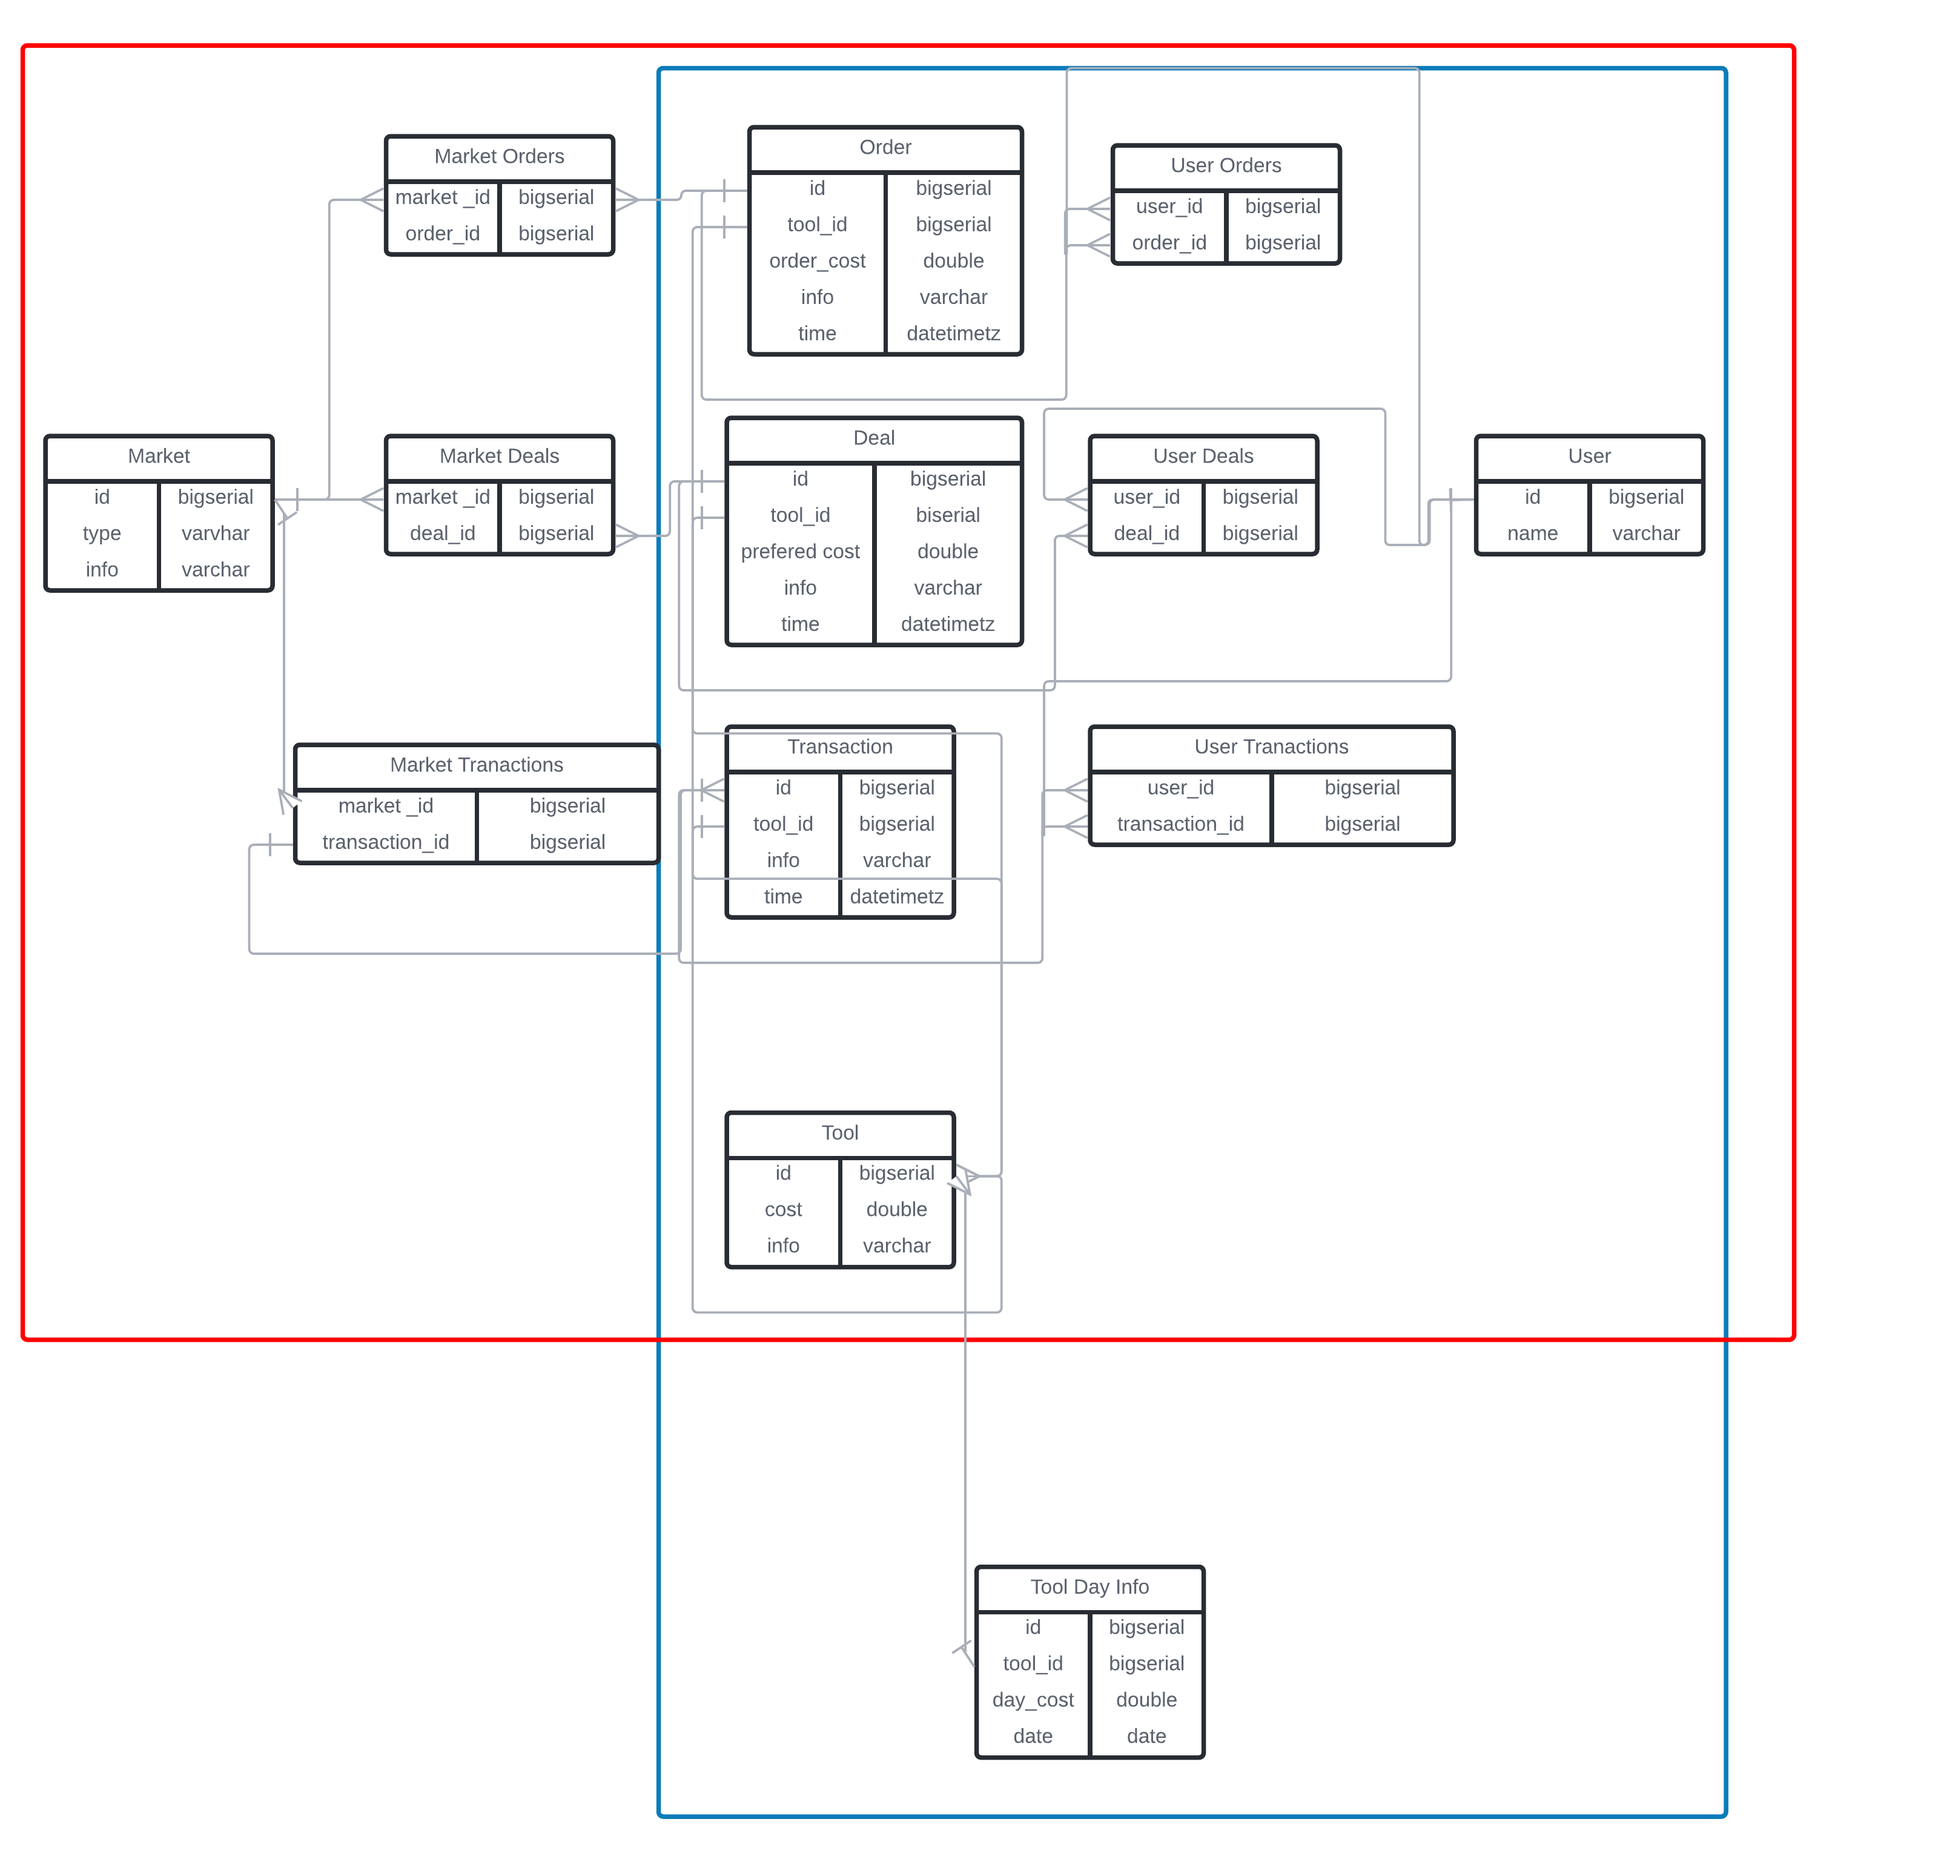
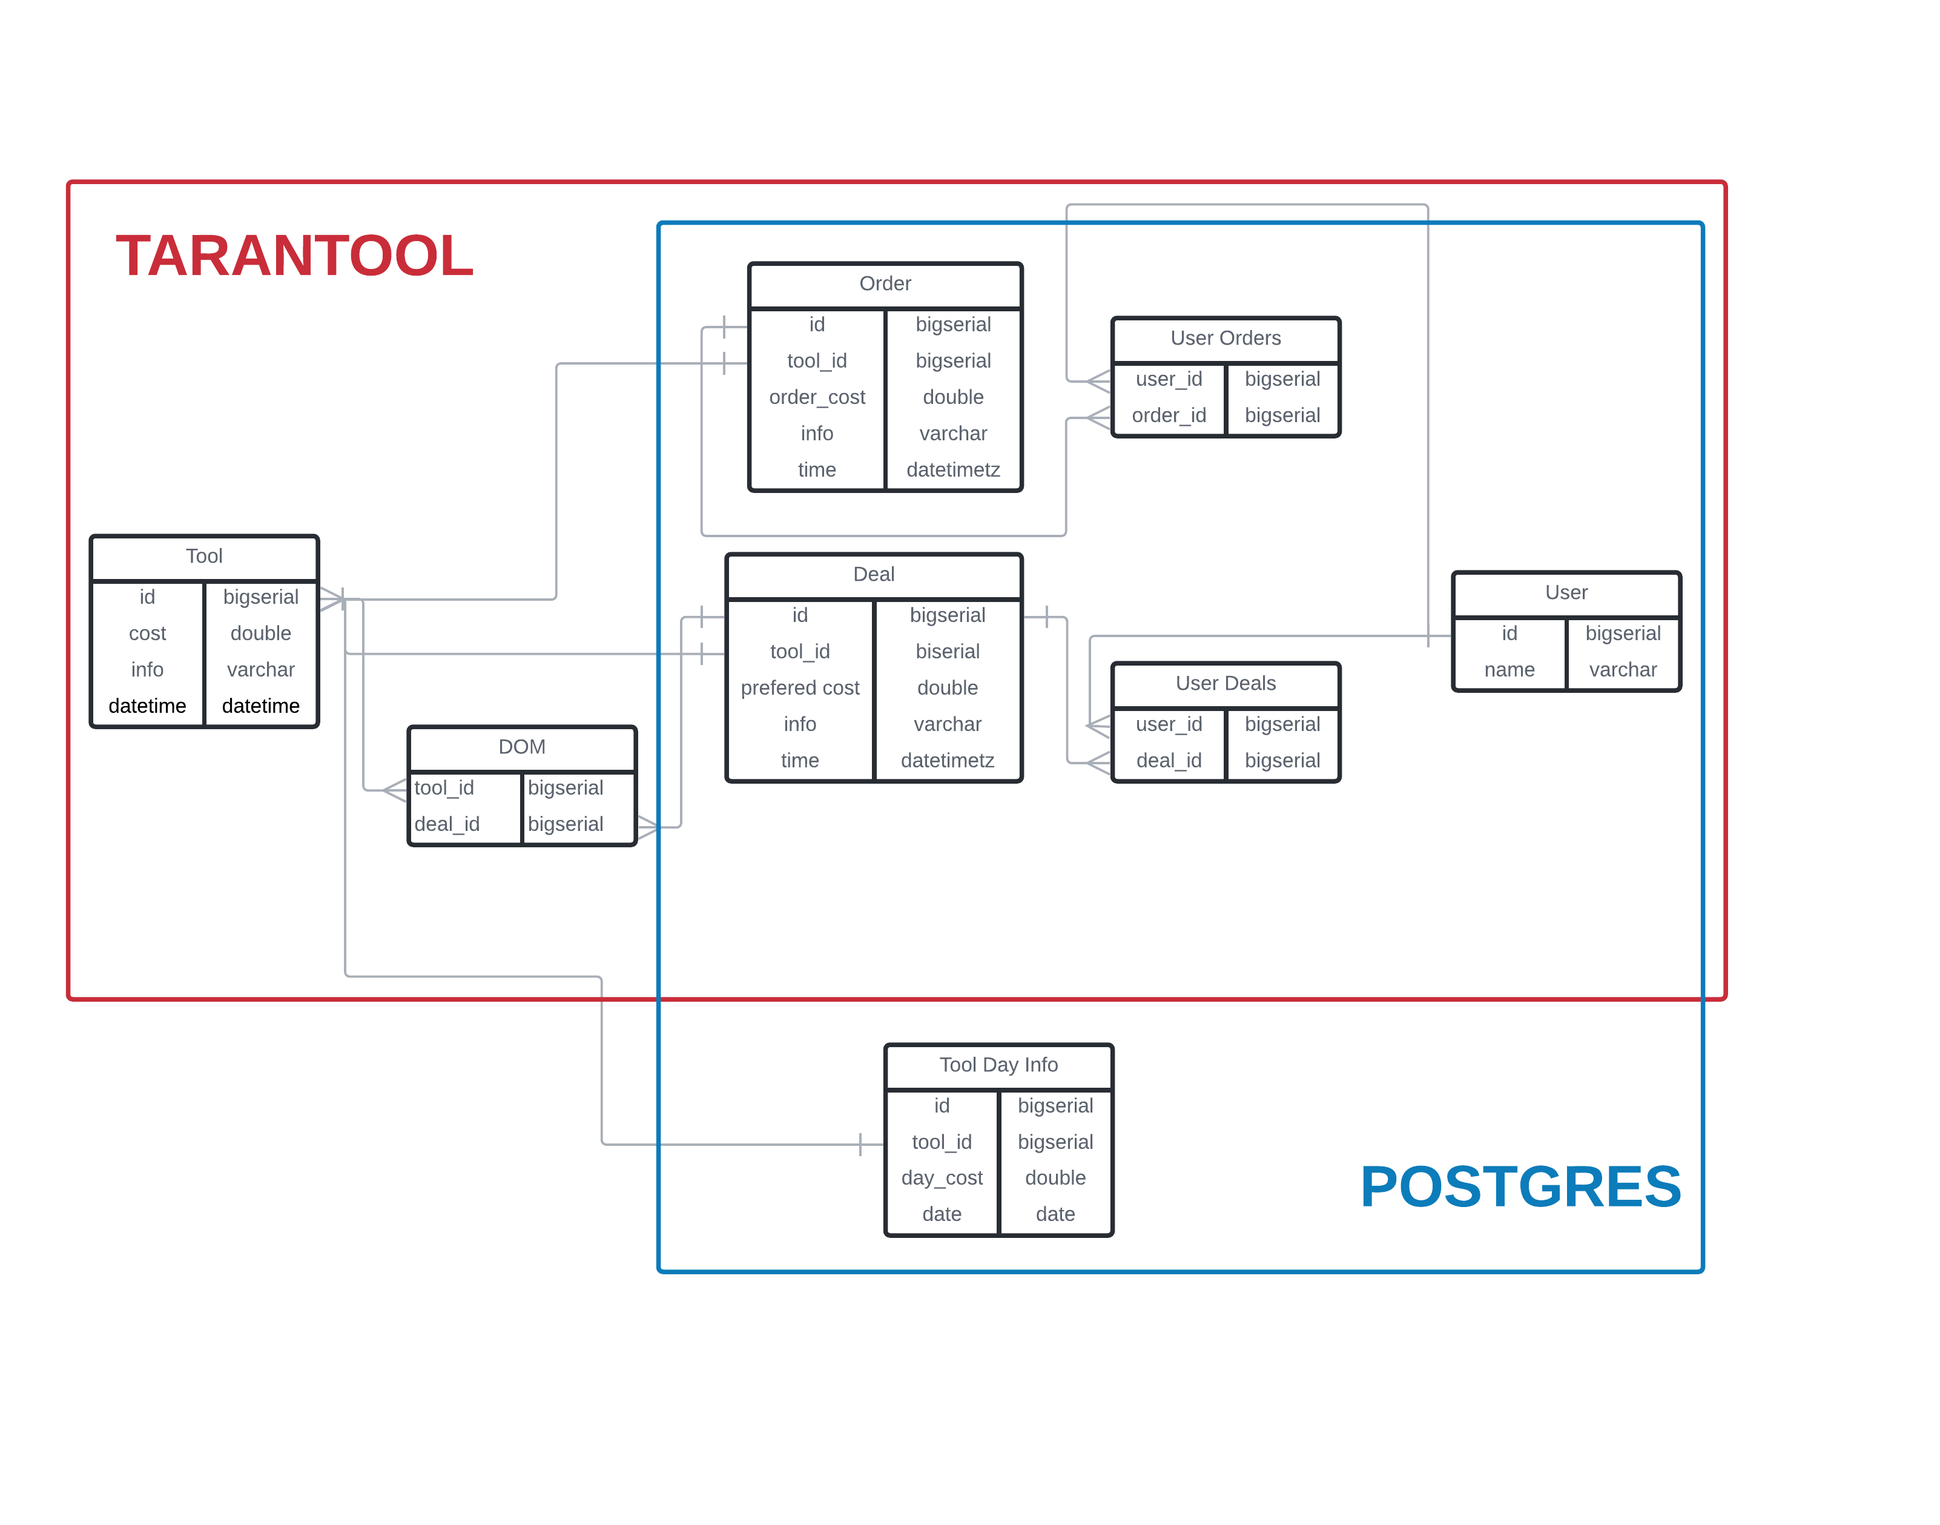
DB updated and load counted

diff --git a/README.md b/README.md
@@ -115,11 +115,27 @@
 
 ![](./media/PhysDBScheme.png) 
 
+###   Нагрузка на таблицы в Tarantool
 
-**Синий -** Postgres
+Исходя из того, что транзакции - это запросы на чтение таблиц, а сделки и заказы запросы на запись посчитаем нагрузку на таблицы в Tarantool. 
 
-**Красный -**  Tarantool
+Самые читаемые таблицы DOM (Информация о стакане), User Deals (Пользовательские заказы), User Orders (Пользовательские сделки) и Tools (Информация о цене инструмента в данных торгах). Следовательно на каждую из них будет приходиться
 
+```
+299 720 RPS / 4 таблицы = 74 930 RPS / таблицу
+``` 
+
+Пишем мы соотвествующие таблицы и связанные с ними, тогда таблица нагрузки будет выглядеть следующим образом:
+
+|Таблица|RPS на чтение|RPS на запись|
+|-|-|-|
+|DOM|74 930|66 355|
+|User Deals|74 930|66 355|
+|User Orders|74 930|4 474|
+|Tool| 74 930 |4 474|
+|Deals| мало |66 355|
+|Orders| мало |4 474|
+|Users|мало|мало|
 
 ### Шардинг
 Так как объем данных довольно большой - нужно подумать о том, как мы будем шардить наши данные между серверами СУБД. 
